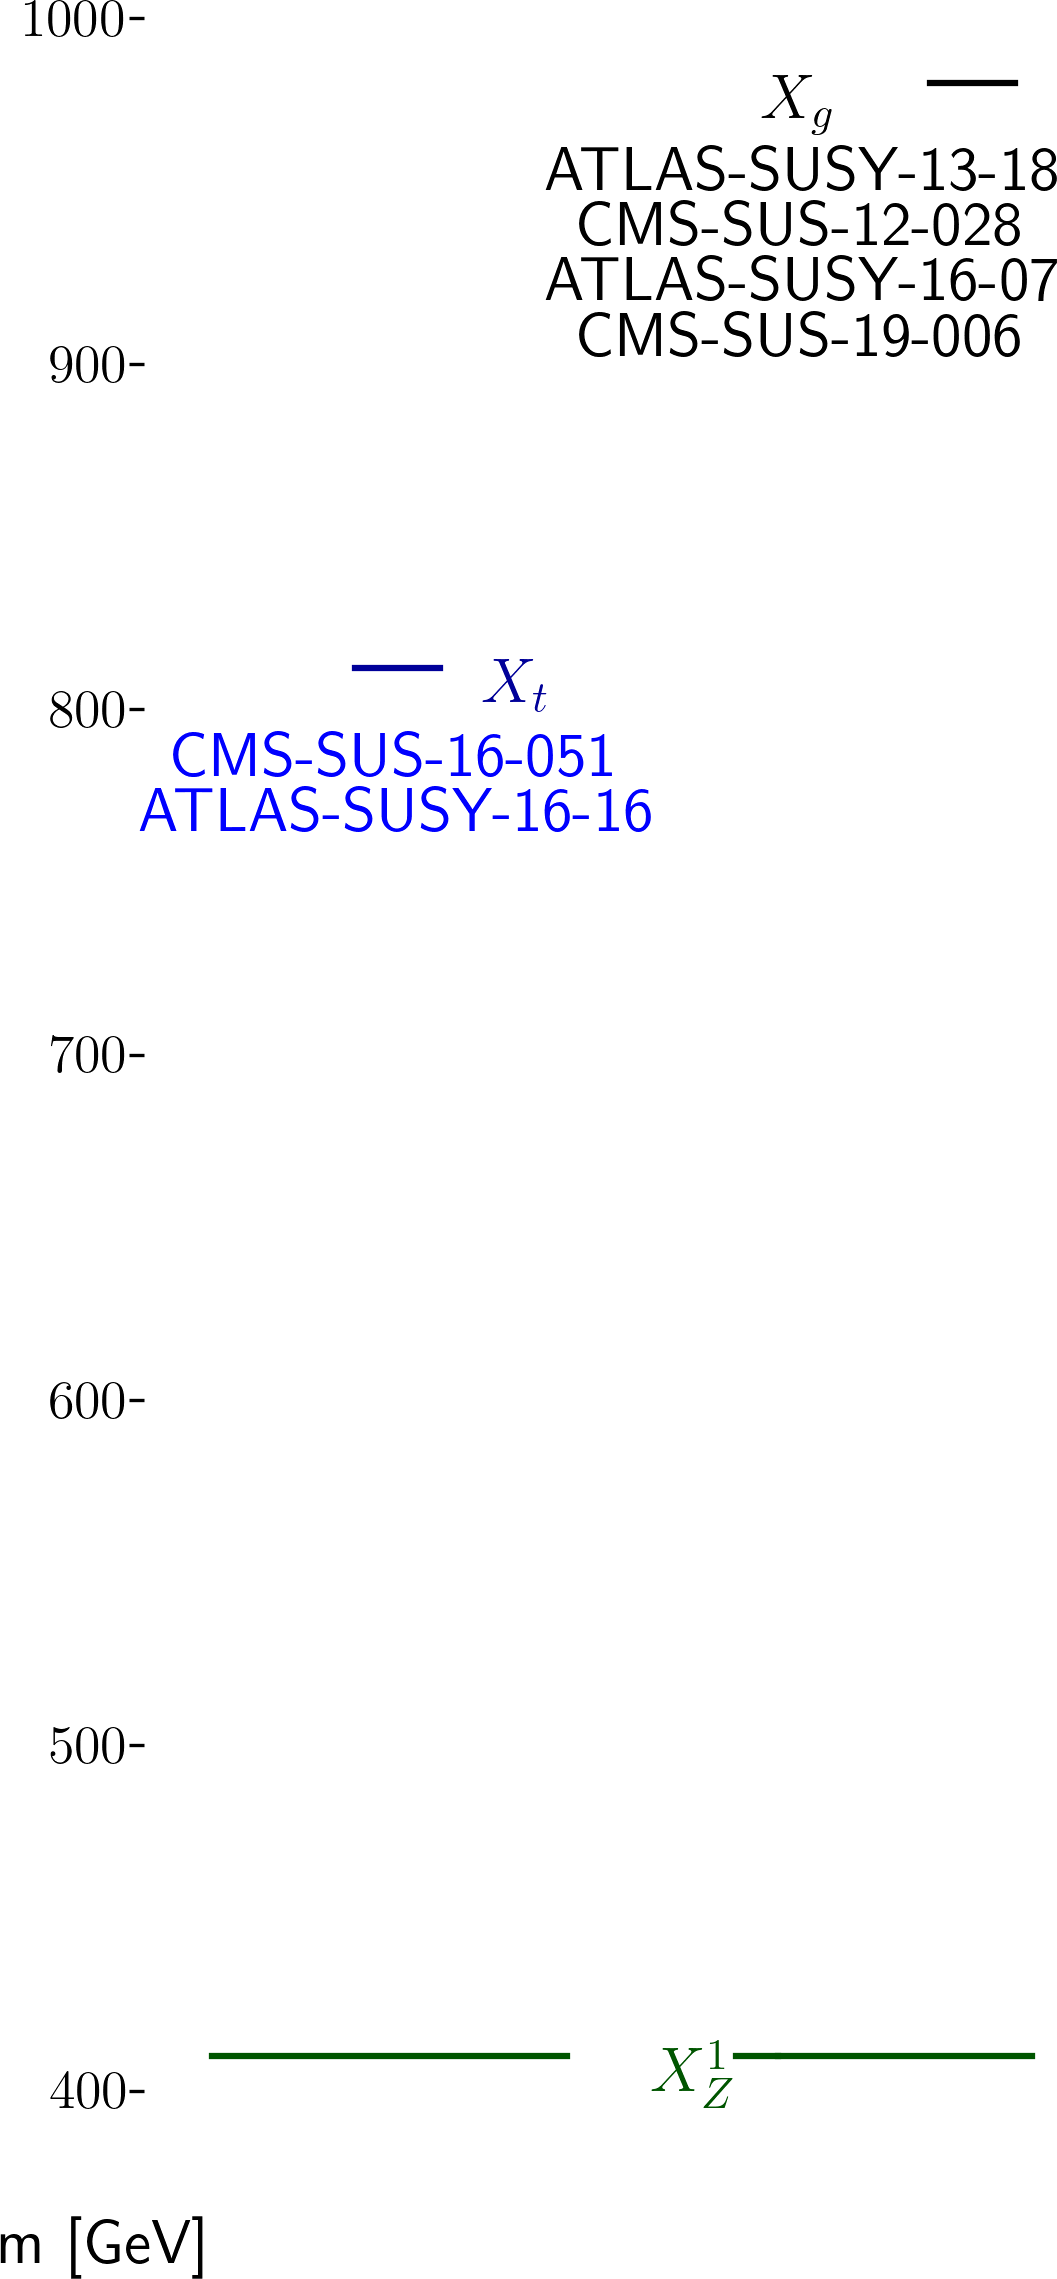
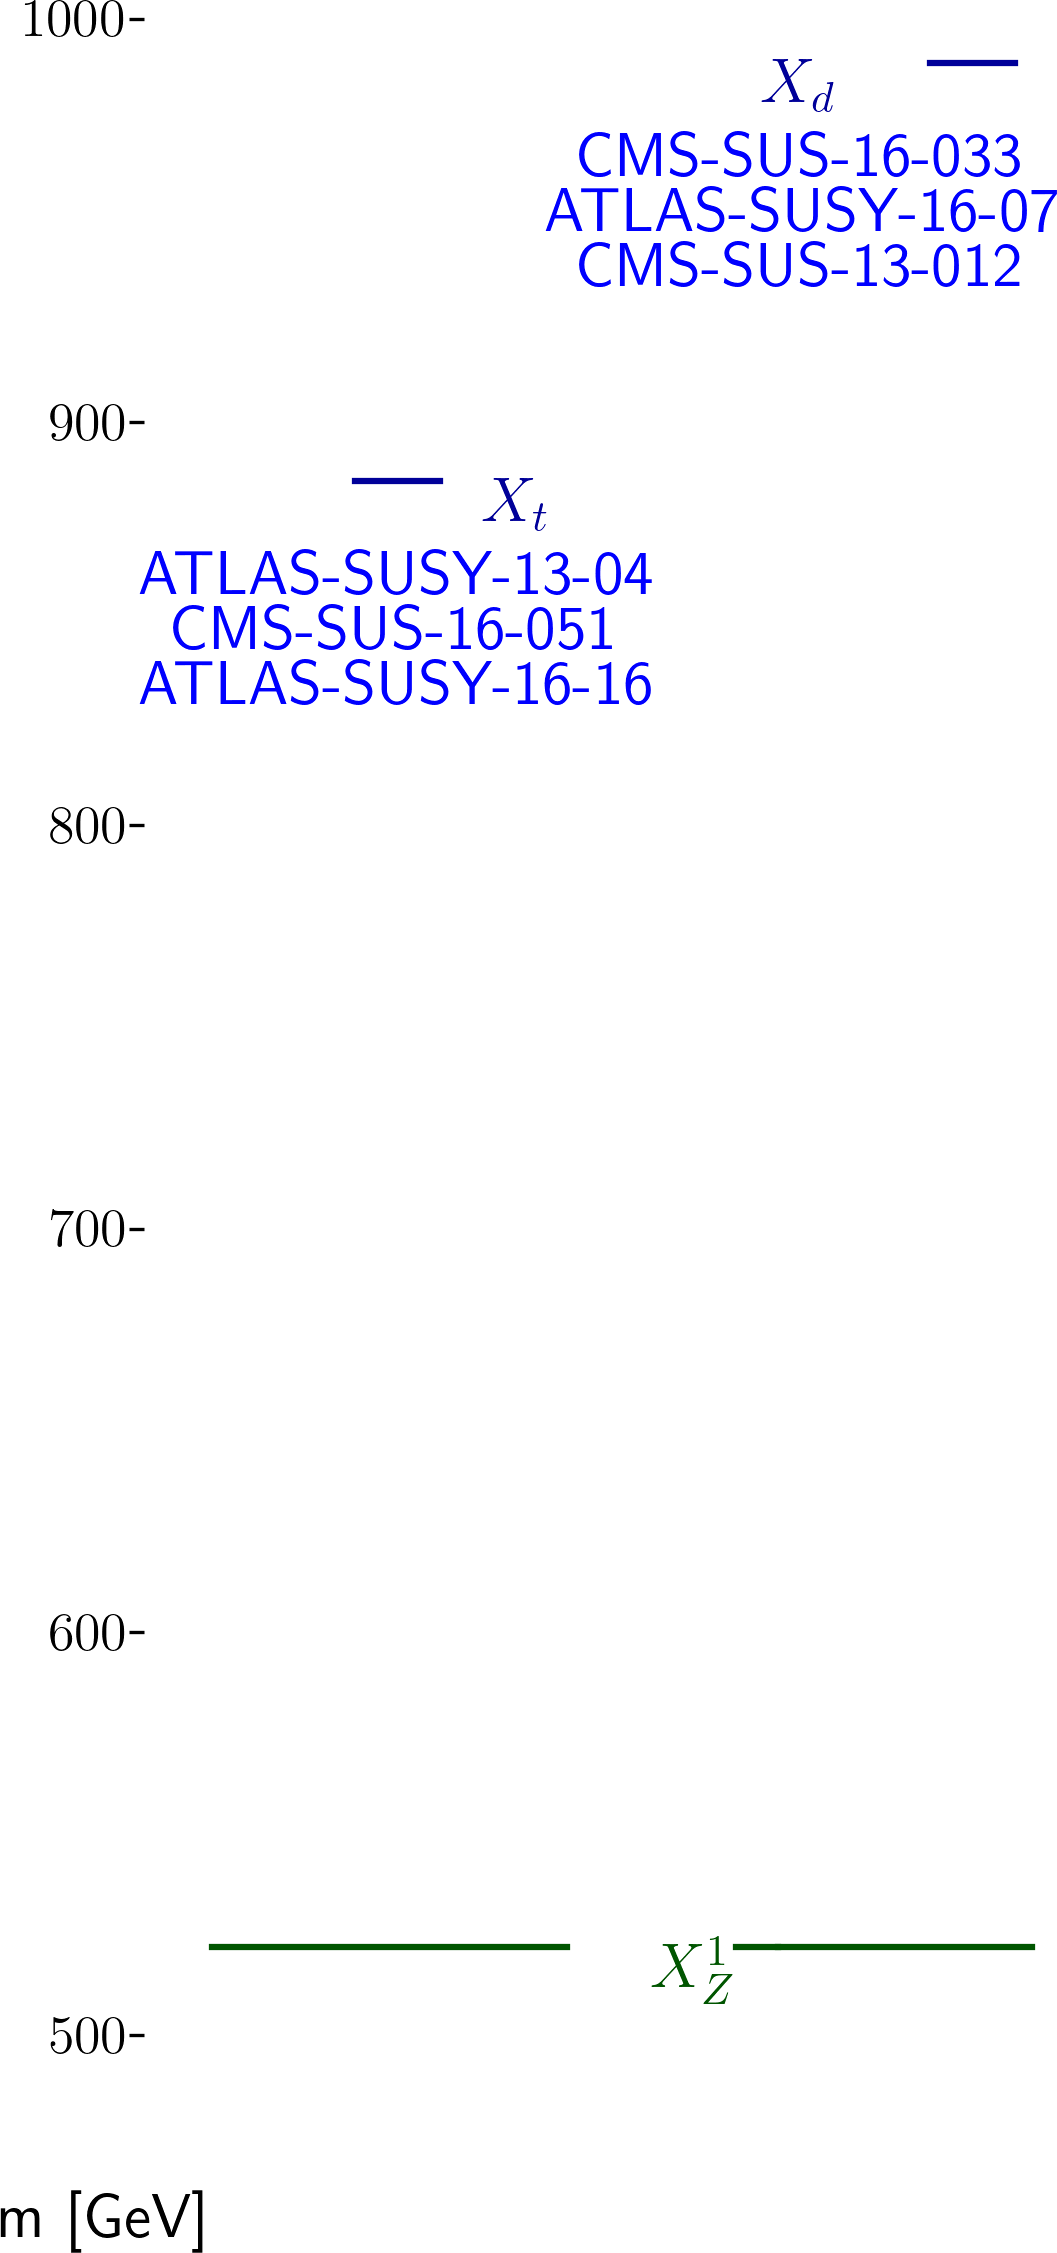
automated update by plotHiscore.py

diff --git a/protomodels/latest/index.html b/protomodels/latest/index.html
@@ -1,31 +1,31 @@
 <html>
 <body>
 <center>
-<table><td><h1>Current best protomodel: K=12.78</h1><td><img height=60px src=https://smodels.github.io/pics/banner.png></table>
+<table><td><h1>Current best protomodel: K=10.44</h1><td><img height=60px src=https://smodels.github.io/pics/banner.png></table>
 </center>
-<b><a href=./hiscore.slha>ProtoModel</a> <a href=./pmodel.py>(dict)</a> produced with <a href=https://smodels.github.io/docs/Validation124signal18>database v1.2.4signal18</a>, combination strategy <a href=./matrix_aggressive.png>aggressive</a> in walker 28 step 105.</b> K plots for: <a href=./M1000022.png?9276897>X<sub>Z</sub><sup>1</sup></a>, <a href=./M1000021.png?9276897>X<sub>g</sub></a>, <a href=./M1000006.png?9276897>X<sub>t</sub></a>. HPD plots for: <a href=./llhd1000021.png?9276897>X<sub>g</sub></a>, <a href=./llhd1000006.png?9276897>X<sub>t</sub></a>. SSM plots for: <a href=./ssm_1000021_1000021.png?9276897>(X<sub>g</sub>,X<sub>g</sub>)</a>, <a href=./ssm_-1000006_1000006.png?9276897>(x&#772;<sub>t</sub>,X<sub>t</sub>)</a><br>
+<b><a href=./hiscore.slha>ProtoModel</a> <a href=./pmodel.py>(dict)</a> produced with <a href=https://smodels.github.io/docs/Validation124signal16>database v1.2.4signal16</a>, combination strategy <a href=./matrix_aggressive.png>aggressive</a> in walker 39 step 992.</b> K plots for: <a href=./M1000022.png?9276939>X<sub>Z</sub><sup>1</sup></a>, <a href=./M1000001.png?9276939>X<sub>d</sub></a>, <a href=./M1000006.png?9276939>X<sub>t</sub></a>. HPD plots for: <a href=./llhd1000001.png?9276939>X<sub>d</sub></a>, <a href=./llhd1000006.png?9276939>X<sub>t</sub></a>. SSM plots for: <a href=./ssm_-1000006_1000006.png?9276939>(x&#772;<sub>t</sub>,X<sub>t</sub>)</a><br>
 <table width=80%>
 <tr><td>
-<br><b>42 predictions available. Highest r values are:</b><br><ul>
-<li><a href=https://cms-results.web.cern.ch/cms-results/public-results/publications/SUS-16-009/>CMS-SUS-16-009</a>:T2tt r=1.30, r<sub>exp</sub>=0.27<br>
-<li><a href=http://cms-results.web.cern.ch/cms-results/public-results/publications/SUS-19-006/index.html>CMS-SUS-19-006</a>:T2tt r=1.26, r<sub>exp</sub>=0.89<br>
-<li><a href=http://cms-results.web.cern.ch/cms-results/public-results/publications/SUS-16-033/index.html>CMS-SUS-16-033</a>:T1bbbb r=0.82, r<sub>exp</sub>=0.68<br>
-<li><a href=http://cms-results.web.cern.ch/cms-results/public-results/publications/SUS-19-006/index.html>CMS-SUS-19-006</a>:T1bbbb r=0.65, r<sub>exp</sub>=1.33<br>
-<li><a href=http://cms-results.web.cern.ch/cms-results/public-results/publications/SUS-16-036/index.html>CMS-SUS-16-036</a>:T1bbbb r=0.37, r<sub>exp</sub>=0.75<br>
+<br><b>29 predictions available. Highest r values are:</b><br><ul>
+<li><a href=http://cms-results.web.cern.ch/cms-results/public-results/publications/SUS-19-006/index.html>CMS-SUS-19-006</a>:T2 r=1.30, r<sub>exp</sub>=1.35<br>
+<li><a href=http://cms-results.web.cern.ch/cms-results/public-results/publications/SUS-19-006/index.html>CMS-SUS-19-006</a>:T2tt r=1.05, r<sub>exp</sub>=0.77<br>
+<li><a href=https://atlas.web.cern.ch/Atlas/GROUPS/PHYSICS/PAPERS/SUSY-2016-07/>ATLAS-SUSY-2016-07</a>:T2 r=0.47, r<sub>exp</sub>=0.67<br>
+<li><a href=http://cms-results.web.cern.ch/cms-results/public-results/publications/SUS-16-033/index.html>CMS-SUS-16-033</a>:T2 r=0.47, r<sub>exp</sub>=1.00<br>
+<li><a href=http://cms-results.web.cern.ch/cms-results/public-results/publications/SUS-16-036/index.html>CMS-SUS-16-036</a>:T2 r=0.44, r<sub>exp</sub>=0.91<br>
 </ul>
 <td><br><b>K values without analyses: (contribution)</b><br>
 <ul>
-<li> <a href=http://cms-results.web.cern.ch/cms-results/public-results/publications/SUS-16-051/index.html>CMS-SUS-16-051</a>: 3.23 (15%)
-<li> <a href=http://cms-results.web.cern.ch/cms-results/public-results/publications/SUS-19-006/index.html>CMS-SUS-19-006</a>: 3.23 (15%)
-<li> <a href=https://twiki.cern.ch/twiki/bin/view/CMSPublic/PhysicsResultsSUS12028>CMS-SUS-12-028</a>: 3.23 (15%)
-<li> <a href=https://atlas.web.cern.ch/Atlas/GROUPS/PHYSICS/PAPERS/SUSY-2016-07/>ATLAS-SUSY-2016-07</a>: 3.21 (15%)
-<li> <a href=https://atlas.web.cern.ch/Atlas/GROUPS/PHYSICS/PAPERS/SUSY-2013-18/>ATLAS-SUSY-2013-18</a>: 1.56 (17%)
-<li> <a href=https://atlas.web.cern.ch/Atlas/GROUPS/PHYSICS/PAPERS/SUSY-2016-16/>ATLAS-SUSY-2016-16</a>: -2.98 (24%)
-<td><img width=600px src=./texdoc.png?1602276897>
-<br><font size=-1>Last updated: Fri Oct  9 22:54:57 2020</font>
+<li> <a href=https://twiki.cern.ch/twiki/bin/view/CMSPublic/PhysicsResultsSUS13012>CMS-SUS-13-012</a>: -1.83 (16%)
+<li> <a href=http://cms-results.web.cern.ch/cms-results/public-results/publications/SUS-16-033/index.html>CMS-SUS-16-033</a>: -1.83 (16%)
+<li> <a href=http://cms-results.web.cern.ch/cms-results/public-results/publications/SUS-16-051/index.html>CMS-SUS-16-051</a>: -1.83 (16%)
+<li> <a href=https://atlas.web.cern.ch/Atlas/GROUPS/PHYSICS/PAPERS/SUSY-2013-04/>ATLAS-SUSY-2013-04</a>: -1.83 (16%)
+<li> <a href=https://atlas.web.cern.ch/Atlas/GROUPS/PHYSICS/PAPERS/SUSY-2016-07/>ATLAS-SUSY-2016-07</a>: -2.21 (17%)
+<li> <a href=https://atlas.web.cern.ch/Atlas/GROUPS/PHYSICS/PAPERS/SUSY-2016-16/>ATLAS-SUSY-2016-16</a>: -2.43 (17%)
+<td><img width=600px src=./texdoc.png?1602276939>
+<br><font size=-1>Last updated: Fri Oct  9 22:55:39 2020</font>
 </table><table style="width:80%">
-<td width=45%><img height=580px src=./ruler.png?1602276897><td width=55%><img height=380px src=./decays.png?1602276897>
-<font size=-3><iframe type="text/html" height="220px" width="100%s" frameborder="0" src="./rawnumbers.html?1602276897"></iframe></font>
+<td width=45%><img height=580px src=./ruler.png?1602276939><td width=55%><img height=380px src=./decays.png?1602276939>
+<font size=-3><iframe type="text/html" height="220px" width="100%s" frameborder="0" src="./rawnumbers.html?1602276939"></iframe></font>
 </table>
 </body>
 </html>

diff --git a/protomodels/latest/rawnumbers.html b/protomodels/latest/rawnumbers.html
@@ -1,10 +1,10 @@
 <table>
 <tr><th>Analysis Name</th><th>Type</th><th>Dataset</th><th>Topos</th><th>Observed</th><th>Expected</th><th>Approx &sigma;</th><th>Particles</th><th>Signal</th>
 </tr>
-<tr><td><a href=https://atlas.web.cern.ch/Atlas/GROUPS/PHYSICS/PAPERS/SUSY-2013-18/>ATLAS-SUSY-2013-18</a></td><td>em</td> <td>SR-0l-4j-B</td><td>T1bbbb</td><td>3</td><td>1.3 +/- 0.9</td><td style="text-align:right">1.2 &sigma;</td><td style="text-align:right">X<sub>g</sub></td><td style="text-align:right">-</td></tr>
-<tr><td><a href=https://atlas.web.cern.ch/Atlas/GROUPS/PHYSICS/PAPERS/SUSY-2016-07/>ATLAS-SUSY-2016-07</a></td><td>em</td> <td>4j_Meff_1800</td><td>T1</td><td>56</td><td>49 +/- 7</td><td style="text-align:right">0.7 &sigma;</td><td style="text-align:right">X<sub>g</sub></td><td style="text-align:right">14</td></tr>
-<tr><td><a href=https://atlas.web.cern.ch/Atlas/GROUPS/PHYSICS/PAPERS/SUSY-2016-16/>ATLAS-SUSY-2016-16</a></td><td>em</td> <td>tN_med</td><td>T2tt</td><td>61</td><td>36.3 +/- 6.6</td><td style="text-align:right">2.8 &sigma;</td><td style="text-align:right">X<sub>t</sub></td><td style="text-align:right">11</td></tr>
-<tr><td><a href=https://twiki.cern.ch/twiki/bin/view/CMSPublic/PhysicsResultsSUS12028>CMS-SUS-12-028</a></td><td>ul</td> <td>-</td><td>T1bbbb</td><td> 7.4 fb </td><td> 6.1 fb</td><td style="text-align:right">0.4 &sigma;</td><td style="text-align:right">X<sub>g</sub></td><td style="text-align:right">-</td></tr>
-<tr><td><a href=http://cms-results.web.cern.ch/cms-results/public-results/publications/SUS-16-051/index.html>CMS-SUS-16-051</a></td><td>ul</td> <td>-</td><td>T2tt</td><td> 54.1 fb </td><td> 23.5 fb</td><td style="text-align:right">2.6 &sigma;</td><td style="text-align:right">X<sub>t</sub></td><td style="text-align:right">30.62 fb</td></tr>
-<tr><td><a href=http://cms-results.web.cern.ch/cms-results/public-results/publications/SUS-19-006/index.html>CMS-SUS-19-006</a></td><td>ul</td> <td>-</td><td>T1bbbb</td><td> 5.1 fb </td><td> 2.5 fb</td><td style="text-align:right">2.0 &sigma;</td><td style="text-align:right">X<sub>g</sub></td><td style="text-align:right">-</td></tr>
+<tr><td><a href=https://atlas.web.cern.ch/Atlas/GROUPS/PHYSICS/PAPERS/SUSY-2013-04/>ATLAS-SUSY-2013-04</a></td><td>em</td> <td>GtGrid_SR_8ij80 ...</td><td>T2tt</td><td>1</td><td>0.9 +/- 0.6</td><td style="text-align:right">0.1 &sigma;</td><td style="text-align:right">X<sub>t</sub></td><td style="text-align:right">0</td></tr>
+<tr><td><a href=https://atlas.web.cern.ch/Atlas/GROUPS/PHYSICS/PAPERS/SUSY-2016-07/>ATLAS-SUSY-2016-07</a></td><td>em</td> <td>6j_Meff_2200</td><td>T2</td><td>6</td><td>3.1 +/- 1.3</td><td style="text-align:right">1.3 &sigma;</td><td style="text-align:right">X<sub>d</sub></td><td style="text-align:right">4</td></tr>
+<tr><td><a href=https://atlas.web.cern.ch/Atlas/GROUPS/PHYSICS/PAPERS/SUSY-2016-16/>ATLAS-SUSY-2016-16</a></td><td>em</td> <td>tN_med</td><td>T2tt</td><td>48</td><td>36.3 +/- 6.6</td><td style="text-align:right">1.3 &sigma;</td><td style="text-align:right">X<sub>t</sub></td><td style="text-align:right">5</td></tr>
+<tr><td><a href=https://twiki.cern.ch/twiki/bin/view/CMSPublic/PhysicsResultsSUS13012>CMS-SUS-13-012</a></td><td>ul</td> <td>-</td><td>T2</td><td> 32.7 fb </td><td> 18.0 fb</td><td style="text-align:right">1.6 &sigma;</td><td style="text-align:right">X<sub>d</sub></td><td style="text-align:right">2.22 fb</td></tr>
+<tr><td><a href=http://cms-results.web.cern.ch/cms-results/public-results/publications/SUS-16-033/index.html>CMS-SUS-16-033</a></td><td>ul</td> <td>-</td><td>T2</td><td> 51.8 fb </td><td> 24.0 fb</td><td style="text-align:right">2.3 &sigma;</td><td style="text-align:right">X<sub>d</sub></td><td style="text-align:right">27.79 fb</td></tr>
+<tr><td><a href=http://cms-results.web.cern.ch/cms-results/public-results/publications/SUS-16-051/index.html>CMS-SUS-16-051</a></td><td>ul</td> <td>-</td><td>T2tt</td><td> 55.4 fb </td><td> 24.8 fb</td><td style="text-align:right">2.4 &sigma;</td><td style="text-align:right">X<sub>t</sub></td><td style="text-align:right">30.62 fb</td></tr>
 </table>

diff --git a/protomodels/latest/pmodel.py b/protomodels/latest/pmodel.py
@@ -1,1 +1,1 @@
-{'masses': {1000022: 399.858, 1000021: 971.353, 1000006: 801.775}, 'ssmultipliers': {(1000022, 1000022): 0.377, (1000021, 1000021): 0.011, (1000021, 1000022): 0.615, (1000006, 1000006): 0.596, (-1000006, 1000006): 0.596, (-1000006, -1000006): 0.596, (1000006, 1000022): 0.458, (-1000006, 1000022): 0.596, (1000006, 1000021): 0.596, (-1000006, 1000021): 0.596}, 'decays': {1000022: {}, 1000021: {(1000022, 5): 0.856, (1000022, 4): 0.144}, 1000006: {(1000022, 6): 1.0}}, 'timestamp': 'Fri Oct  9 22:54:33 2020', 'Z': 4.096, 'K': 12.776, 'walkerid': 28, 'step': 105, 'codever': '1.0', 'dbver': '1.2.4signal18'}
+{'masses': {1000022: 511.926, 1000001: 979.148, 1000006: 875.361}, 'ssmultipliers': {(1000022, 1000022): 0.0, (1000001, 1000001): 0.079, (-1000001, 1000001): 3.307, (-1000001, -1000001): 3.393, (1000001, 1000022): 3.393, (-1000001, 1000022): 3.393, (1000006, 1000006): 1.019, (-1000006, 1000006): 1.019, (-1000006, -1000006): 1.019, (1000006, 1000022): 1.019, (-1000006, 1000022): 1.019, (1000001, 1000006): 0.902, (-1000006, 1000001): 0.902, (-1000001, 1000006): 0.0, (-1000006, -1000001): 0.902}, 'decays': {1000022: {}, 1000001: {(1000022, 1): 1.0}, 1000006: {(1000022, 6): 1.0}}, 'timestamp': 'Fri Oct  9 22:55:10 2020', 'Z': 3.77, 'K': 10.437, 'walkerid': 39, 'step': 992, 'codever': '1.0', 'dbver': '1.2.4signal16'}
